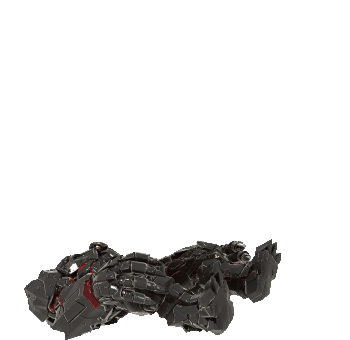
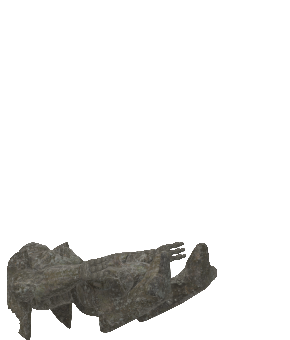
v0.2.11, built from 83e58e7

Changed region(s): [[0.0, 0.7059, 0.8069, 1.0]]

diff --git a/index.html b/index.html
@@ -397,7 +397,7 @@
   <div id="mapPage"><canvas id="mapCanvas"></canvas><input id="mapNote" maxlength="36" autocomplete="off" spellcheck="false"></div>
   <div id="mapHint"></div>
 </div>
-<div id="title">THE SEALED PROPHET <span class="ver">v0.2.10</span><small><span id="levelName"></span> &middot; <span id="state">Walking</span></small></div>
+<div id="title">THE SEALED PROPHET <span class="ver">v0.2.11</span><small><span id="levelName"></span> &middot; <span id="state">Walking</span></small></div>
 <button id="helpBtn">HIDE CONTROLS</button>
 <div id="help"></div>
 <div id="look"></div>
@@ -458,7 +458,7 @@ window.loading = (() => {
       <div class="fan"></div>
       <h1 id="bloodTitle">THE SEALED<br>PROPHET</h1>
       <div class="sub">A JOURNAL &middot; 1924</div>
-      <div class="ver" style="margin-top:8px;text-align:center">v0.2.10</div>
+      <div class="ver" style="margin-top:8px;text-align:center">v0.2.11</div>
       <div class="rule"></div>
       <button id="continueBtn" style="display:none">CONTINUE</button>
       <button id="beginBtn">BEGIN</button>

diff --git a/CREDITS.md b/CREDITS.md
@@ -22,7 +22,7 @@ the creatures are posed and rendered to pictures by `tools/blender/creatures.py`
 | Golden-Eared Hound Dog (the black jackal) | iRahulRajput | CC Attribution 4.0 | https://sketchfab.com/3d-models/golden-eared-hound-dog-3d-model-free-8269f0b38a04400cad281b48696674ab |
 | Zombie_Smoke_Mummy_Character (the rotting dead) | Mehdi Shahsavan | CC Attribution 4.0 | https://sketchfab.com/3d-models/zombie-smoke-mummy-character-12-mb-855ade268167415e954f4377ed4519c5 |
 | CC0 Black Scarab Beetle, R. polita (the sacred scarab; shell tinted blue, posed and rendered by `tools/blender/creature_beetle.py`) | ffish.asia / floraZia.com | CC0 (public domain) | https://sketchfab.com/3d-models/cc0-black-scarab-beetle-r-polita-120c26e3f712449388b91021a67082d7 |
-| Volcanic Obsidian Golem Creature (the Colossus of Ptah; posed and rendered by `tools/blender/creature_colossus.py`; the author says it was made with AI-assisted 3D generation) | Pigcraft | CC Attribution 4.0 | https://sketchfab.com/3d-models/volcanic-obsidian-golem-creature-c2553e3a69864575b2fe7115e8c2d7f3 |
+| Stone Monster Statue (the Colossus of Ptah; posed and rendered by `tools/blender/creature_colossus.py`) | Digital3dWorld | CC Attribution 4.0 | https://sketchfab.com/3d-models/stone-monster-statue-fda7fd8e5c8243c28974fd3ee2fd8d22 |
 | Wooden Hammer 01 (the hammer) | James Ray Cock | CC0 (public domain) | https://polyhaven.com/a/wooden_hammer_01 |
 | La Belle Aurore (the handwriting of the journal, the notes and the map) | Kimberly Geswein | SIL Open Font License 1.1 | https://fonts.google.com/specimen/La+Belle+Aurore |
 
